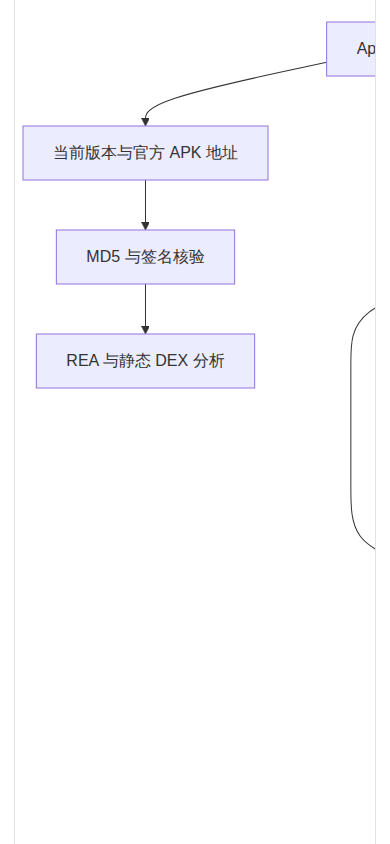
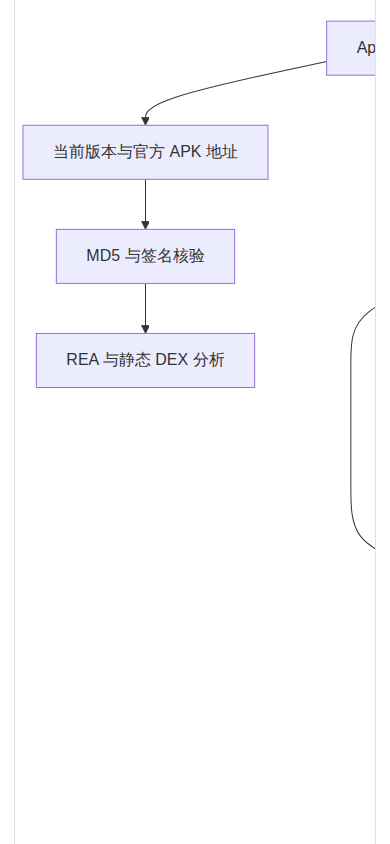
docs(reports): 归档主线全绿与真实页面恢复证据

diff --git a/reports/leyu-domain-20261027/REPORT.html b/reports/leyu-domain-20261027/REPORT.html
@@ -12,7 +12,7 @@ p,li{max-width:84ch}a{color:#087b73}img{max-width:100%;height:auto;display:block
 pre{padding:14px;background:#f2f4f5;overflow:auto;border-left:3px solid #13877d;white-space:pre-wrap}code{font-family:ui-monospace,monospace}blockquote{border-left:3px solid #e0a24a;margin-left:0;padding-left:16px;color:#53616c}
 @media(max-width:640px){main{padding:20px 14px}h1{font-size:26px}}
 p,li,td,th,code{overflow-wrap:anywhere}</style><main><h1>乐鱼 0401038、域名与 Android 2.0.2 核验</h1>
-<p>日期：2026-10-27，时间统一 UTC。任务 TASK-76。当前阶段：APK 与协议分析完成，采集恢复修复正在真实验收。</p>
+<p>日期：2026-10-27，时间统一 UTC。任务 TASK-76。当前阶段：官方分发与静态分析、采集恢复及 GitHub 验证完成；持续覆盖告警、官方赛果及正式发布另行验收。</p>
 <h2>结论与证据边界</h2>
 <p>当前没有证据支持“0401038 是业务域名已经失效”。12:27:52 与 12:29:00，部署中的同一业务域名分别成功返回全量赛程；12:29:00 的单批盘口也成功。12:30:39 的受控低并发测试完成 2,075 场赛程及 36 场盘口，三批盘口全部成功，没有更换域名、业务令牌或代理。以上为测量事实，不等于已测出上游限流阈值。</p>
 <p>项目故障放大点已从代码确认：首次补盘会选出全部到期赛事；任一盘口批次返回限流会中止整轮，丢弃已成功的赛程及盘口；下一轮仍从头开始，因此实时连接虽然在线，初始比赛投影却一直为空，订阅数为零。缺失批次明细还会逐场回退请求，缺少整轮上限。新修复限制每轮补盘并跨阶段轮转，保留完整赛程；限流后停止后续盘口请求、保留成功结果并冷却，不借换域名、换 IP 或重复登录继续请求。</p>
@@ -159,7 +159,7 @@ p,li,td,th,code{overflow-wrap:anywhere}</style><main><h1>乐鱼 0401038、域名
 </tbody></table></div>
 <h2>验证与剩余问题</h2>
 <ul>
-<li>首轮 Docker 冻结全套回归：473 项、180.801 秒、退出码 0；加入入库互斥后再次运行针对性测试并进行真实部署验收。</li>
+<li>首轮 Docker 冻结全套回归：473 项、180.801 秒、退出码 0；最终批量实现 477 项通过并完成真实部署与 GitHub 干净检出 CI。</li>
 <li>上游没有公开可核验的 0401038 限流规则；本次没有测量“每秒多少次必触发”。低负载成功与全轮失败支持请求扇出/失败处理方向，但服务端容量、账号预算、路由策略仍可能共同作用。</li>
 <li>登录代理仍只用于登录，普通采集保持直连；本次调查没有再次提交密码登录，没有进行投注。</li>
 <li>Telegram 当前另有 <code>AuthKeyDuplicatedError</code>，官方赛果确认仍未配置；本次乐鱼修复不等于这些业务验收完成。</li>
@@ -203,5 +203,13 @@ p,li,td,th,code{overflow-wrap:anywhere}</style><main><h1>乐鱼 0401038、域名
 <h2>可复核文件与构建</h2>
 <p>公开发行来源与校验和见 data/apk-provenance.json；受控请求测量见 data/measurements.csv；真实恢复快照见 data/runtime-verification.json 和 data/collector-verification.json。Mermaid 源码、编译器版本及哈希在 data/，静态 SVG 位于 images/。原始抓包和发行包不提交仓库，报告不包含会话或签名秘密。</p>
 <p>双端报告采用既有离线渲染链，真实浏览器检查 1440 与 390 像素、图片解码、页面溢出、流程图可读及 file 直接打开。首次检查暴露“流程图已经能完整放下却要求必须滚动”的过强断言，以及长校验和在手机上撑宽页面；分别改为只对溢出流程图验证滚动、长代码自动换行，再通过原检查。报告不依赖在线 CDN。</p>
-<p>最终本机 Docker 冻结回归（包含 250 场元数据批次）：477 项、182.094 秒、零失败/错误/跳过，退出码 0。定向 LeYu 协议与生命周期 46 项、0.249 秒，退出码 0；Compose 契约、8 文件 Python AST、规划结构和 Git 差异空白检查均退出码 0。完整命令为 sh infra/test/run.sh，证据摘要见 data/regression.json。正式提交内容还需通过 GitHub 干净检出 CI；本机冻结快照不冒充已提交内容验收。</p></main>
+<p>最终本机 Docker 冻结回归（包含 250 场元数据批次）：477 项、182.094 秒、零失败/错误/跳过，退出码 0。定向 LeYu 协议与生命周期 46 项、0.249 秒，退出码 0；Compose 契约、8 文件 Python AST、规划结构和 Git 差异空白检查均退出码 0。完整命令为 sh infra/test/run.sh，证据摘要见 data/regression.json。正式提交内容还需通过 GitHub 干净检出 CI；本机冻结快照不冒充已提交内容验收。</p>
+<h2>主线验收与实际页面</h2>
+<p>GitHub PR #76 已于 2026-10-27 13:05:17 UTC 合入 main，合并提交 1fd96ce85b0fa419e5158c8c78dd56ba5f4852f6；远端运行 40508233916 的 backend、browser、android 均成功。干净检出证据摘要在 data/github-verification.json。477 项本机回归的 unittest 输出为 182.094 秒，外围计时器为 183.975 秒，两者范围不同，均保留而不混用。</p>
+<p>13:02:27 UTC 公开接口已有 79 场滚球足球，其中 6 场存在通过默认 15 秒门禁的报价；该值随实际变价变化，并非稳定覆盖率承诺。13:03:35 UTC 部署页面两端均加载 50+ 场，JS 异常及整体横向溢出为零。实际截图也暴露手机列表中长队名和盘口信息局部重叠，属于待单独修复的页面布局问题；自动烟测通过不代表高保真视觉验收全部完成。</p>
+<p>桌面真实页面（仅公开只读数据）：</p>
+<p><img alt="部署后桌面比分页面" src="images/deployed-desktop.png"></p>
+<p>手机真实页面（长队名与盘口局部重叠为已记录缺陷）：</p>
+<p><img alt="部署后手机比分页面与待修布局" src="images/deployed-mobile.png"></p>
+<p>本次没有因发现最新版便直接改变登录协议声明的 2.0.1 常量：当前授权链路已成功，2.0.2 对登录签名和字段是否有新增要求尚未做完整请求验证。后续应通过受控版本契约测试更新，不能把包版本数字替换等同于协议迁移完成。</p></main>
 </html>

diff --git a/reports/leyu-domain-20261027/REPORT.md b/reports/leyu-domain-20261027/REPORT.md
@@ -1,6 +1,6 @@
 # 乐鱼 0401038、域名与 Android 2.0.2 核验
 
-日期：2026-10-27，时间统一 UTC。任务 TASK-76。当前阶段：APK 与协议分析完成，采集恢复修复正在真实验收。
+日期：2026-10-27，时间统一 UTC。任务 TASK-76。当前阶段：官方分发与静态分析、采集恢复及 GitHub 验证完成；持续覆盖告警、官方赛果及正式发布另行验收。
 
 ## 结论与证据边界
 
@@ -72,7 +72,7 @@ flowchart TD
 
 ## 验证与剩余问题
 
-- 首轮 Docker 冻结全套回归：473 项、180.801 秒、退出码 0；加入入库互斥后再次运行针对性测试并进行真实部署验收。
+- 首轮 Docker 冻结全套回归：473 项、180.801 秒、退出码 0；最终批量实现 477 项通过并完成真实部署与 GitHub 干净检出 CI。
 - 上游没有公开可核验的 0401038 限流规则；本次没有测量“每秒多少次必触发”。低负载成功与全轮失败支持请求扇出/失败处理方向，但服务端容量、账号预算、路由策略仍可能共同作用。
 - 登录代理仍只用于登录，普通采集保持直连；本次调查没有再次提交密码登录，没有进行投注。
 - Telegram 当前另有 `AuthKeyDuplicatedError`，官方赛果确认仍未配置；本次乐鱼修复不等于这些业务验收完成。
@@ -101,3 +101,19 @@ flowchart TD
 双端报告采用既有离线渲染链，真实浏览器检查 1440 与 390 像素、图片解码、页面溢出、流程图可读及 file 直接打开。首次检查暴露“流程图已经能完整放下却要求必须滚动”的过强断言，以及长校验和在手机上撑宽页面；分别改为只对溢出流程图验证滚动、长代码自动换行，再通过原检查。报告不依赖在线 CDN。
 
 最终本机 Docker 冻结回归（包含 250 场元数据批次）：477 项、182.094 秒、零失败/错误/跳过，退出码 0。定向 LeYu 协议与生命周期 46 项、0.249 秒，退出码 0；Compose 契约、8 文件 Python AST、规划结构和 Git 差异空白检查均退出码 0。完整命令为 sh infra/test/run.sh，证据摘要见 data/regression.json。正式提交内容还需通过 GitHub 干净检出 CI；本机冻结快照不冒充已提交内容验收。
+
+## 主线验收与实际页面
+
+GitHub PR #76 已于 2026-10-27 13:05:17 UTC 合入 main，合并提交 1fd96ce85b0fa419e5158c8c78dd56ba5f4852f6；远端运行 40508233916 的 backend、browser、android 均成功。干净检出证据摘要在 data/github-verification.json。477 项本机回归的 unittest 输出为 182.094 秒，外围计时器为 183.975 秒，两者范围不同，均保留而不混用。
+
+13:02:27 UTC 公开接口已有 79 场滚球足球，其中 6 场存在通过默认 15 秒门禁的报价；该值随实际变价变化，并非稳定覆盖率承诺。13:03:35 UTC 部署页面两端均加载 50+ 场，JS 异常及整体横向溢出为零。实际截图也暴露手机列表中长队名和盘口信息局部重叠，属于待单独修复的页面布局问题；自动烟测通过不代表高保真视觉验收全部完成。
+
+桌面真实页面（仅公开只读数据）：
+
+![部署后桌面比分页面](images/deployed-desktop.png)
+
+手机真实页面（长队名与盘口局部重叠为已记录缺陷）：
+
+![部署后手机比分页面与待修布局](images/deployed-mobile.png)
+
+本次没有因发现最新版便直接改变登录协议声明的 2.0.1 常量：当前授权链路已成功，2.0.2 对登录签名和字段是否有新增要求尚未做完整请求验证。后续应通过受控版本契约测试更新，不能把包版本数字替换等同于协议迁移完成。

diff --git a/docs/platform-v2/PROGRESS.md b/docs/platform-v2/PROGRESS.md
@@ -222,3 +222,10 @@ git diff --check
 - 最终部署实现（包含 250 场元数据批次）的 Docker 冻结回归：sh infra/test/run.sh，477 项 / 182.094 秒，零失败、错误、跳过，退出码 0；证据目录 .runtime/test-evidence/2146095/，完整冻结源哈希保留。
 - sh infra/check-runtime.sh、Docker 内 8 文件 AST 语法检查、python tasks/check_planning.py 和 git diff --check 全部退出码 0。规划结构共 46 个工作包、332 动作、206 个有证据勾选项，不声称未勾选节点已经完成。
 - Docker 浏览器离线报告检查桌面 1440、手机 390 和 file 直接打开三场景通过，退出码 0；无外部网络请求、图片解码正常、正文无横向溢出。下一动作：创建 PR，运行远端干净检出 CI，全绿后合入并校验 main。
+
+### E97 GitHub 主线与真实页面验收
+
+- PR #76 的运行 40508233916：backend、browser、android 三项 success，检查命令 gh pr checks 76 退出码 0。13:05:17 UTC 合入 main，合并提交 1fd96ce85b0fa419e5158c8c78dd56ba5f4852f6；git pull --ff-only 与 git ls-remote 核对本地/远端一致，退出码 0。
+- 远端干净检出回归原始证据已下载项目内，摘要与范围入报告。当前 API 入库模块及 Collector 两模块 SHA-256 与提交工作树一致；不以镜像标签相同代替源码核对。
+- 真实公开只读页面 1440/390 双端加载 50+ 场、无 JS 异常、无整页横向溢出，命令 Docker 内 live-smoke 退出码 0。实际手机截图发现盘口与长队名局部重叠，另列后续布局验收，不能把烟测冒称视觉全通过。
+- 13:02:27 UTC 公开接口返回 79 场滚球足球，6 场带符合默认 15 秒门禁的报价；之后实时状态继续 partial，不降低门禁。Issue #72 已发布本轮恢复、验证及剩余依赖，保留 TG、官方赛果和正式签名等未完成项。
